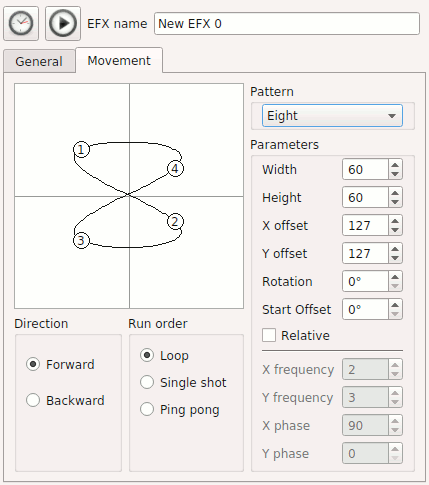
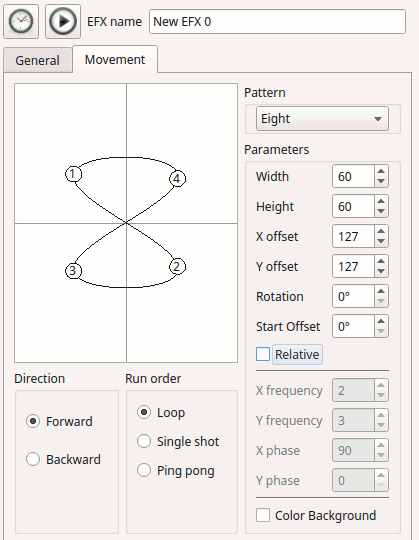
Docs: updated EFX editor documentation with latest changes
Also updated the screenshots

diff --git a/resources/docs/efxeditor.html b/resources/docs/efxeditor.html
@@ -62,6 +62,9 @@ The view is split into two tabs:
    <UL>
     <LI>Step: Shows the order in which the fixtures start their movement in serial/asymmetric order</LI>
     <LI>Fixture: The name of each fixture that has been added to the EFX</LI>
+    <LI>Mode: The channels the EFX should control. They can be <b>Position</b>, <B>Dimmer</B> or <B>RGB</B><BR>
+        Note: when selecting RGB, you might want to enable the "Color Background" described below.
+    </LI>
     <LI>Reverse: When checked, the fixture reverses its movement as opposed to non-reversed fixtures. The "normal" direction 
         is set by direction in the "Movement" page.</LI>
     <LI>Start Offset: Value in degrees, where on the movement path this fixture should start</LI>
@@ -192,6 +195,14 @@ The view is split into two tabs:
     <LI>X Phase: Change the <B>Lissajous</B> pattern's X (horizontal) phase (0-360 degrees)</LI>
     <LI>Y Phase: Change the <B>Lissajous</B> pattern's Y (vertical) phase (0-360 degrees)</LI>
    </UL>
+  </TD>
+ </TR>
+ <TR>
+  <TD>
+   <B>Color Bacground</B>
+  </TD>
+  <TD>When enabled, the EFX preview background will display a RGB palette, to show what the EFX does
+      when controlling RGB channels
   </TD>
  </TR>
  <TR>
